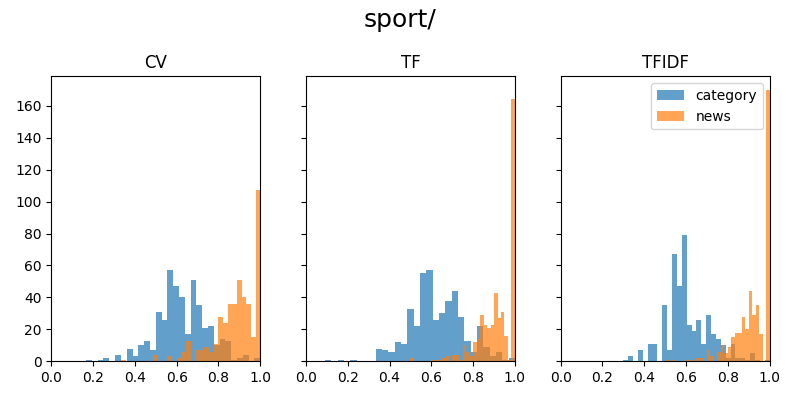
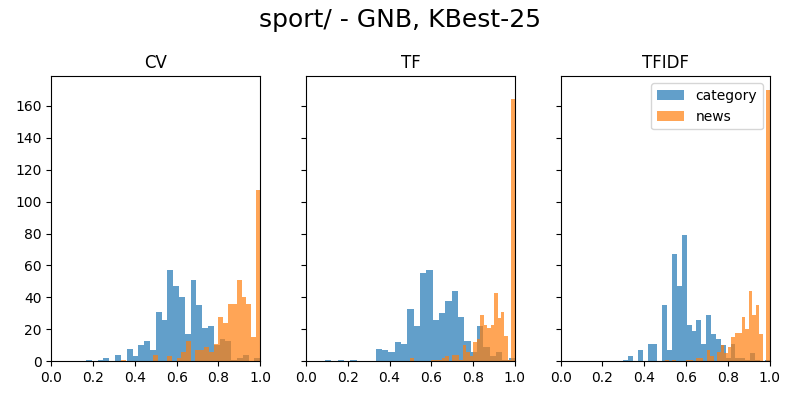
figs fix

Changed region(s): [[0.3125, 0.0, 0.6875, 0.09]]

diff --git a/exp_category_analyse.py b/exp_category_analyse.py
@@ -20,7 +20,7 @@ for d_id, dir in enumerate(dirs):
     vectorizers = ['CV', 'TF', 'TFIDF']
 
     fig, ax = plt.subplots(1,3, figsize=(8,4), sharex=True, sharey=True)
-    plt.suptitle('%s' % (dir), fontsize=18)
+    plt.suptitle('%s - GNB, KBest-25' % (dir), fontsize=18)
 
     for v_id, vect in enumerate(vectorizers):
         for e_id, e in enumerate(extractors):
